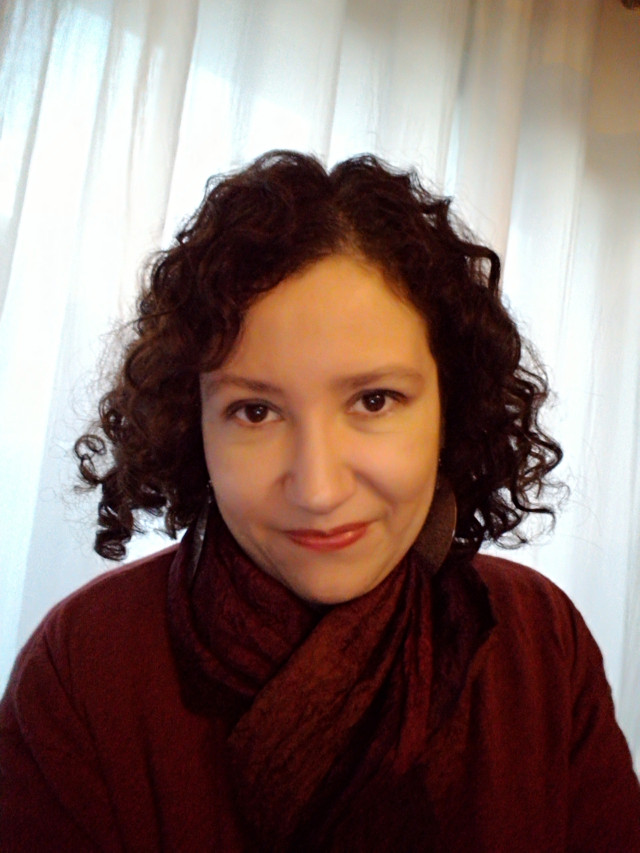
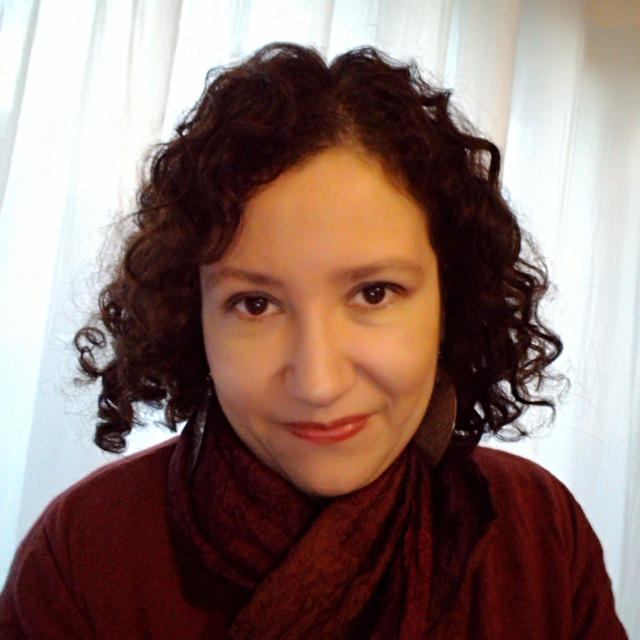
Changed: Photo

diff --git a/index.html b/index.html
@@ -64,39 +64,42 @@ layout: default
     </header>
   </div>
 </div>
-
 <div class="home container" id="skills">
   <h2>Compétences</h2>
   <div id="domains" class="row">
-    <div id="individuals" class="col-sm-6">
+    <div id="individuals" class="col-sm-5 col-sm-offset-2">
       <h3>Consultations pour les particuliers</h3>
       <ul>
         <li>Troubles anxieux, phobies</li>
         <li>Dépression, SPT</li>
         <li>Souffrance professionnelle, conflits, burnout</li>
-        <li>Orientation scolaire &amp; profesionnelle, tests</li>
+        <li>Orientation scolaire &amp; professionnelle, tests</li>
       </ul>
     </div>
-    <div id="companies" class="col-sm-6">
+    <div id="companies" class="col-sm-5">
       <h3>Consultante RH</h3>
       <ul>
         <li>Recrutement tous profils</li>
         <li>Bilans professionnels</li>
-        <li>Evaluation psychométriques</li>
+        <li>Evaluations psychométriques</li>
         <li>Conseil et gestion de carrières</li>
       </ul>
     </div>
   </div>
+</div>
 
+<div class="container-line"></div>
+
+<div class="container">
   <div id="curriculum">
     <h2>Parcours</h2>
     <div class="row">
     <div class="col-sm-2 col-xs-6">
-    <img src="/images/photo.jpg" class="img-responsive" alt="Photo de Valérie Chappey">
+    <img src="/images/photo.jpg" class="img-circle img-responsive" alt="Photo de Valérie Chappey">
     </div>
     <div class="col-sm-5 col-xs-6">
       <ul id="courses">
-        <li>Master 2 Psychologie et Ingénierie des Ressources Humaines, donnant accès au titre de psychologue</li>
+        <li>Master 2 Psychologie et Ingénierie des Ressources Humaines</li>
         <li>Maîtrise de Psychologie</li>
         <li>Licence de Psychologie</li>
         <li>DEUG de Psychologie</li>
@@ -113,7 +116,11 @@ layout: default
     </div>
     </div>
   </div>
+</div>
 
+<div class="container-line"></div>
+
+<div class="container">
   <div id="proof">
     <h2>Témoignages clients</h2>
      <div class="row slides">
@@ -125,7 +132,7 @@ layout: default
             <meta itemprop="ratingCount" content="5">
           </div>
 
-          <div id="carousel-example-generic" class="carousel slide" data-ride="carousel">
+          <div id="carousel-example-generic" class="carousel slide" data-ride="carousel" data-interval="10000">
           
             <!-- Wrapper for slides -->
             <div class="carousel-inner" role="listbox">
@@ -185,7 +192,9 @@ layout: default
       </div>
     </div>
   </div>
-
+</div>
+<div class="container-line"></div>
+<div class="container">
   <div id="contact">
     <h2>Contact et mentions légales</h2>
     <div class="row">
@@ -201,7 +210,7 @@ layout: default
       <div class="col-md-6">
         <table width="100%">
           <tr>
-            <th>Adrresse</th>
+            <th>Adresse</th>
             <td>1 Bd Pierre Mendes France<br/>
         59370 Mons en Baroeul</td>
           </tr>
@@ -210,7 +219,7 @@ layout: default
             <td><a href="tel:0950199139">09 50 199 139</a> / <a href="tel:0660153481">06 60 51 42 27</a></td>
           </tr>
           <tr>
-            <td>Mail</td>
+            <th>Mail</th>
             <td><a href="mailto:contact@psychologue.pro">contact@psychologue.pro</a></td>
           </tr>
         </table>

diff --git a/_sass/_psychologue_pro.scss b/_sass/_psychologue_pro.scss
@@ -2,13 +2,22 @@
 @import url(https://maxcdn.bootstrapcdn.com/bootstrap/3.3.6/css/bootstrap.min.css);
 
 $bg: #eeebe6;
+$bgg: #ddd;
 
 body {
      background: #fff;
+     text-align:justified;
 }
 
 h1, h2 {
     font-family: 'Comfortaa', cursive;
+}
+
+h1 {
+ margin-top: 10px;
+}
+h2 {
+ margin-top: 0;
 }
 
 @media (max-width: 360px) {
@@ -18,8 +27,7 @@ h1, h2 {
      font-size: 1.7em !important;
    }
    h2 {
-     margin-top: 0;
-     font-size: 1.5em !important;
+      font-size: 1.5em !important;
    }
    #what {
      font-size: 1em !important;
@@ -48,7 +56,8 @@ h1, h2 {
 
 #navbar, #navbar .nav-bar {
   text-align:center;
-  background: #eeebe6;
+  background: darken($bgg, 50%) !important;
+  color: lighten($bg, 90%);
   min-height: 0;
   margin-bottom: 0;
 }
@@ -62,24 +71,21 @@ ul.mynav {
   margin: 0 auto;
   li {
     list-style: none;
-    margin: 0 10px;
-    float:left;
-    border-bottom: 3px solid transparent;
+    display: inline-block;
+    border-bottom: 5px solid transparent;
     a {
       padding: 10px 10px 5px 10px;
       display: inline-block;
       text-decoration: none;
-      color: darken($bg, 90%);
-      background: none;
       &:hover {
         background: none;
       }
       &:visited {
-        color: darken($bg, 90%);
+        color: lighten($bg, 90%);
       }
     }
     &.active, &:hover {
-      border-bottom: 3px solid darken($bg, 30%);
+      border-bottom: 5px solid $bg;
     }
   }
 }
@@ -93,6 +99,9 @@ header {
     float: left;
     margin-right: 10px;
   }
+   p {
+     margin-top: 30px !important;
+    }
   h1 {
     white-space: nowrap;
     i {
@@ -128,8 +137,14 @@ div#slider {
   }
 }
 
-#home, #services, #curriculum, #proof, #updates {
+#home, #services, #curriculum, #proof, #updates, #contact {
   padding-top: 50px !important;
+}
+
+.container-line {
+  border-top: 1px solid #0294B5;
+  height: 1px;
+  margin-top: 30px;
 }
 
 .carousel {
@@ -147,7 +162,6 @@ h3 {
 .carousel-inner {
 p, div.person {
   padding: 10px 30px;
-  font-size: 1.2em;
 }
 
 p.testimony span {
